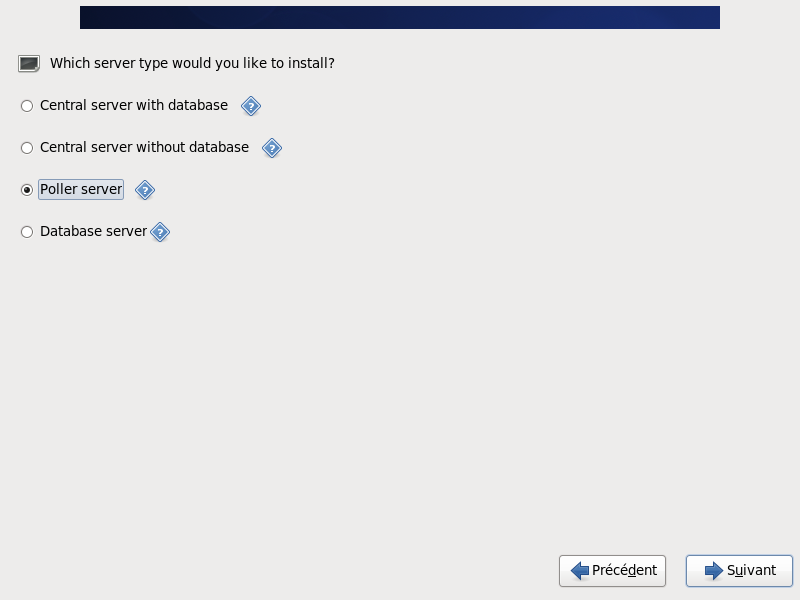
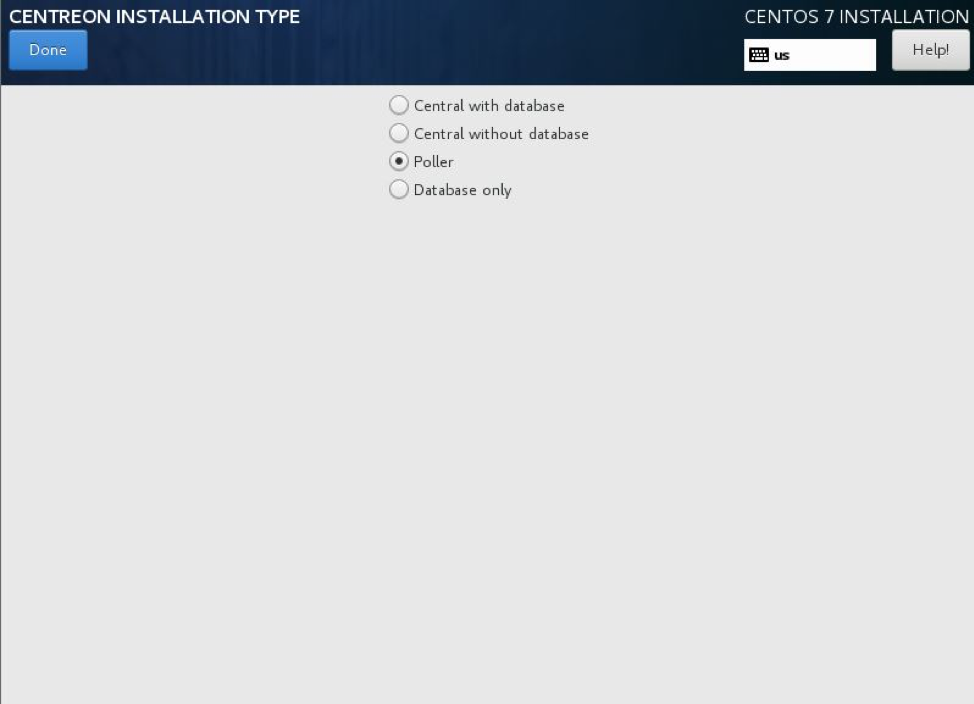
fix(donc): improve FR version

diff --git a/doc/fr/migration/upgradetoCentreon18.10.rst b/doc/fr/migration/upgradetoCentreon18.10.rst
@@ -9,8 +9,8 @@ Prérequis
 *********
 
 Cette procédure ne s'applique que pour une plate-forme **Centreon 3.4**,
-installé sur une distribution GNU/Linux 64 bits et disposant des prérequis
-suivants :
+installé sur une distribution GNU/Linux 64 bits autre que CentOS ou Red Hat 7 
+et disposant des prérequis suivants :
 
 +-----------------+---------+
 | Composants      | Version |
@@ -34,7 +34,7 @@ Migration
 .. warning::
     En cas de migration d'une plate-forme disposant du système de redondance
     Centreon, il est nécessaire de contacter votre `support Centreon 
-    <https://support.centreon.com>`_.
+    <https://centreon.force.com>`_.
 
 .. warning::
     En cas de migration d'une plate-forme disposant du module **Centreon Poller
@@ -70,40 +70,45 @@ suivants : ::
 .. warning::
     En cas de migration d'une plate-forme CES 3.4.1, Centreon-web 2.8.26 sous CentOS 6 avec MariaDB 5.X, ne pas synchroniser les dossiers /var/lib/mysql avec RSYNC vers la database Centreon 18.10 en MariaDB 10.1.
     
-    #. Faire un dump des bases de données sources
+    #. Faire un dump des bases de données sources : ::
+    
         # mysqldump -u root -p centreon > /tmp/export/centreon.sql
         # mysqldump -u root -p centreon_storage > /tmp/export/centreon_storage.sql
       
-    #. Arreter le serveur MariaDB source
+    #. Arreter le serveur MariaDB source : ::
+    
         # service mysql stop
     
-    #. Transférer les exports vers le nouveau serveur de base de données Centreon 18.10
+    #. Transférer les exports vers le nouveau serveur de base de données Centreon 18.10 : ::
+    
         # rsync -avz /tmp/centreon.sql root@IP_New_Centreon:/tmp/
         # rsync -avz /tmp/centreon_storage.sql root@IP_New_Centreon:/tmp/
         
-    #. Sur le serveur de base de données Centreon 18.10 supprimer les bases de données vierges et les recréer
+    #. Sur le serveur de base de données Centreon 18.10 supprimer les bases de données vierges et les recréer : ::
+    
         # mysql -u root -p
         # drop database centreon;
         # drop database centreon_storage;
         # create database centreon;
         # create database centreon_storage;
         
-    #. Importer les dumps
+    #. Importer les dumps : ::
+    
         # mysql -u root centreon -p </tmp/centreon.sql
         # mysql -u root centreon_storage -p </tmp/centreon_storage.sql
         
-    #. Executer l'upgrade des tables
+    #. Executer l'upgrade des tables : ::
+    
         # mysql_upgrade
         
     #. Reprendre la procédure de migration
     
-
 Si le SGBD MySQL/MariaDB est installé sur même serveur que le serveur Centreon,
 exécutez les commandes suivantes :
 
 #. Arrêtez le processus **mysqld** sur les deux serveurs (ancien et nouveau) : ::
 
-    # systemctl stop mysqld
+    # service mysqld stop
 
 #. Sur le nouveau serveur, supprimer le contenu du répertoire /var/lib/mysql/ : ::
 
@@ -137,16 +142,17 @@ dépend de votre installation. Les principaux répertoires à synchroniser sont 
 .. note::
     Si vous avez des pollers en centreon engine 1.8.1 que vous comptez migrer plus tard en centreon engine 18.10, attention au dossier des plugins nagios. La ressource $USER1$ ce Centreon 18.10 pointe sur /usr/lib64/nagios/plugins
     
-    A éxécuter sur vos collecteurs en centreon-engine 1.8.1 :
+    A éxécuter sur vos collecteurs en centreon-engine 1.8.1 : ::
     
-    # mv /usr/lib64/nagios/plugins/* /usr/lib/nagios/plugins/
-    # rmdir /usr/lib64/nagios/plugins/
-    # ln -s -t /usr/lib64/nagios/ /usr/lib/nagios/plugins/
+        # mv /usr/lib64/nagios/plugins/* /usr/lib/nagios/plugins/
+        # rmdir /usr/lib64/nagios/plugins/
+        # ln -s -t /usr/lib64/nagios/ /usr/lib/nagios/plugins/
     
-    De cette façon un lien symbolique est créé :
-    # ls -alt /usr/lib64/nagios/
-    lrwxrwxrwx   1 root root      24  1 nov.  17:59 plugins -> /usr/lib/nagios/plugins/
-    -rwxr-xr-x   1 root root 1711288  6 avril  2018 cbmod.so
+    De cette façon un lien symbolique est créé : ::
+    
+        # ls -alt /usr/lib64/nagios/
+        lrwxrwxrwx   1 root root      24  1 nov.  17:59 plugins -> /usr/lib/nagios/plugins/
+        -rwxr-xr-x   1 root root 1711288  6 avril  2018 cbmod.so
     
     Et vous permet de pousser les configuration de collecteur depuis Centreon 18.10 indifféremment vers un collecteur en 18.10 ou 1.8.1
 

diff --git a/doc/fr/installation/common/install_iso.rst b/doc/fr/installation/common/install_iso.rst
@@ -16,7 +16,7 @@ Démarrez avec l'option **Install CentOS 7** :
 Etape 2 : Choix de la langue
 ============================
 
-Choisissez la langue du processus d'installation puis cliquez sur **Done** :
+Choisissez la langue du processus d'installation puis cliquez sur **Continue** :
 
 .. image :: /images/guide_utilisateur/02_select_install_lang.png
    :align: center
@@ -37,12 +37,12 @@ Il est possible de choisir différentes options :
    :align: center
    :scale: 65%
 
-|
-
  * **Central with database** : Installe Centreon (interface web + base de données) ainsi que l'ordonnanceur et le broker
  * **Central without database** : Installe Centreon (interface web uniquement) ainsi que l'ordonnanceur et le broker
  * **Poller** : Installe le serveur satellite (ordonnanceur et broker uniquement)
  * **Database only** : Installe le serveur de base de données (utilisé en complément avec l'option **Central server without database**)
+
+Après avoir sélectionné le type d'installation, cliquez sur **Done**.
 
 Etape 4 : Configuration système
 ===============================
@@ -68,9 +68,38 @@ A l'aide du bouton **+** créez votre partitionnement suivant les :ref:`prérequ
    :align: center
    :scale: 65%
 
+.. note::
+    Il est recommandé d'utiliser LVM par défaut pour le partitionnement.
+
 Une fenêtre de confirmation apparaît, cliquez sur **Accept Changes** pour valider le partitionnement :
 
 .. image :: /images/guide_utilisateur/08_apply_changes.png
+   :align: center
+   :scale: 65%
+
+Configuration du fuseau horaire
+-------------------------------
+
+Cliquez sur le menu **Date & Time** :
+
+.. image :: /images/guide_utilisateur/11_menu_timezone.png
+   :align: center
+   :scale: 65%
+
+Sélectionnez votre fuseau horaire et cliquez sur le bouton de configuration :
+
+.. note::
+    Il est normal que vous ne puissiez pas activer l'option *network time* dans
+    cet écran. Il deviendra automatiquement activé lorsque vous configurerez le
+    réseau et le nom d'hôte.
+
+.. image :: /images/guide_utilisateur/12_select_timzeone.png
+   :align: center
+   :scale: 65%
+
+Activez ou ajouter des serveurs NTP, cliquez sur **OK** puis **Done** :
+
+.. image :: /images/guide_utilisateur/13_enable_ntp.png
    :align: center
    :scale: 65%
 
@@ -86,27 +115,6 @@ Cliquez sur le menu **Network & Hostname** :
 Activez toutes les cartes réseaux, saisissez le nom de votre serveur puis cliquez sur **Done** :
 
 .. image :: /images/guide_utilisateur/10_network_hostname.png
-   :align: center
-   :scale: 65%
-
-Configuration du fuseau horaire
--------------------------------
-
-Cliquez sur le menu **Date & Time** :
-
-.. image :: /images/guide_utilisateur/11_menu_timezone.png
-   :align: center
-   :scale: 65%
-
-Sélectionnez votre fuseau horaire et cliquez sur le bouton de configuration :
-
-.. image :: /images/guide_utilisateur/12_select_timzeone.png
-   :align: center
-   :scale: 65%
-
-Activez ou ajouter des serveurs NTP, cliquez sur **OK** puis **Done** :
-
-.. image :: /images/guide_utilisateur/13_enable_ntp.png
    :align: center
    :scale: 65%
 
@@ -131,7 +139,8 @@ Saisissez et confirmez le mot de passe de l'utilisateur **root**. Cliquez sur **
    :align: center
    :scale: 65%
 
-Patientez pendant le processus d'installation :
+Patientez pendant le processus d'installation. vous pouvez également créer de
+nouveaux utilisateurs si nécessaire :
 
 .. image :: /images/guide_utilisateur/17_wait_install.png
    :align: center

diff --git a/doc/fr/installation/common/post_install.rst b/doc/fr/installation/common/post_install.rst
@@ -40,7 +40,11 @@ L'interface web de Centreon est composée de plusieurs menus, chaque menu a une 
 .. image :: /images/guide_utilisateur/amenu.png
    :align: center
 
-* Le menu **Accueil** permet d'accéder au premier écran d'accueil après s'être connecté. Il résume l'état général de la supervision.
+* Le menu **Accueil** permet d'accéder au premier écran d'accueil après s'être
+  connecté. Il résume l'état général de la supervision. Votre espace de travail
+  peut être vide pour l'instant. Une fois que vous avez configuré les widgets
+  personnalisables, vous verrez les données et les graphiques en fonction de votre
+  personnalisation.
 * Le menu **Supervision** regroupe l'état de tous les éléments supervisés en temps réel et en différé au travers de la visualisation des logs
 * Le menu **Vues** permet de visualiser et de configurer les graphiques de performances pour chaque élément du système d'informations
 * Le menu **Rapports** permet de visualiser de manière intuitive (via des diagrammes) l'évolution de la supervision sur une période donnée
@@ -79,7 +83,7 @@ Les modules sont maintenant installés :
 Vous pouvez maintenant vous rendre au menu **Configuration > Extensions
 -> Plugin Packs**. Vous y trouverez vos six premiers Plugin Packs
 gratuits pour vous aider à démarrer. Cinq Plugin Packs supplémentaires
-sont débloqués après vous être inscrit et plus de 150 sont disponibles
+sont débloqués après vous être inscrit et plus de 300 sont disponibles
 si vous souscrivez à l'offre IMP (plus d'informations sur
 `notre site web <https://www.centreon.com>`_).
 

diff --git a/doc/fr/installation/from_VM.rst b/doc/fr/installation/from_VM.rst
@@ -9,6 +9,10 @@ Deux machines virtuelles pré-configurées sont disponibles sur le site de
 
 Ces machines virtuelles sont disponibles au format OVA (VMware) et OVF (VirtualBox).
 
+.. note::
+    Les OVA/OVF peuvent ne pas contenir de configuration de carte réseau. Il
+    sera nécessaire d'ajouter une carte réseau avant de démarrer le serveur.
+
 ************************
 Serveur Centreon central
 ************************
@@ -34,7 +38,7 @@ Le mot de passe de de l'utilisateur **root** de la base de données n'est pas in
     de passe aprés l'installation
 
 A la première connexion, un message indique les opérations à réaliser. Suivez
-celles-ci, **spécialement les opérations 4 et 5**.
+celles-ci, **les opérations 4 et 5 sont obligatoires**.
 
 .. note::
     Pour supprimer ce message, supprimez le fichier **/etc/profile.d/centreon.sh**.
@@ -60,6 +64,12 @@ l’utilisateur ‘centreon’ ::
 
     # su - centreon
     $ ssh-keygen -t rsa
+
+.. note::
+    Appuyez sur la touche *entrée* quand il vous sera demandé de saisir un
+    fichier pour enregistrer la clé. Laissez le mot de passe vide si vous le
+    souhaitez. Cependant, ce n'est pas recommandé. Vous recevrez une empreinte
+    digitale de clé et une image randomart.
 
 Vous devez copier cette clé sur le nouveau serveur : ::
 

diff --git a/doc/fr/installation/common/install_packages.rst b/doc/fr/installation/common/install_packages.rst
@@ -48,6 +48,11 @@ Installation : ::
 
 Le dépôt est maintenant installé.
 
+.. note::
+    Si le paquet n'est pas installé, exécutez la commande : ::
+    
+        # yum install wget
+
 *******************************
 Installation du serveur central
 *******************************
@@ -104,7 +109,8 @@ La timezone par défaut de PHP doit être configurée. Executer la commande suiv
     # echo "date.timezone = Europe/Paris" > /etc/opt/rh/rh-php71/php.d/php-timezone.ini
 
 .. note::
-    Changez **Europe/Paris** par votre fuseau horaire.
+    Changez **Europe/Paris** par votre fuseau horaire. La liste des fuseaux horaires
+    est disponible `ici <http://php.net/manual/en/timezones.php>`_.
 
 Après avoir réalisé la modification, redémarrez le service Apache : ::
 
@@ -139,7 +145,9 @@ Lancer les commandes suivantes sur le serveur Central : ::
 
 .. note::
     Si la base de données MySQL est sur un serveur dédié, lancer la commande
-    d'activation mysql sur ce dernier.
+    d'activation mysql sur ce dernier : ::
+    
+        # systemctl enable mysql
 
 Terminer l'installation
 -----------------------

diff --git a/doc/fr/administration_guide/poller/ssh_key.rst b/doc/fr/administration_guide/poller/ssh_key.rst
@@ -12,6 +12,12 @@ l’utilisateur **centreon** : ::
     # su - centreon
     $ ssh-keygen -t rsa
 
+.. note::
+    Appuyez sur la touche *entrée* quand il vous sera demandé de saisir un
+    fichier pour enregistrer la clé. Laissez le mot de passe vide si vous le
+    souhaitez. Cependant, ce n'est pas recommandé. Vous recevrez une empreinte
+    digitale de clé et une image randomart.
+
 Générez un mot de passe sur le nouveau serveur pour l'utilisateur
 **centreon** : ::
 
@@ -20,4 +26,4 @@ Générez un mot de passe sur le nouveau serveur pour l'utilisateur
 Vous devez copier cette clé sur le nouveau serveur : ::
 
     # su - centreon
-    $ ssh-copy-id -i .ssh/id_rsa.pub centreon@IP_POLLER
+    $ ssh-copy-id -i .ssh/id_rsa.pub centreon@IP_NEW_POLLER

diff --git a/doc/fr/administration_guide/poller/install_poller_iso.rst b/doc/fr/administration_guide/poller/install_poller_iso.rst
@@ -12,8 +12,8 @@ Central réalisé à partir du fichier ISO de Centreon.
 .. note::
     Référez-vous à la documentation :ref:`installation<installisoel7>`.
 
-A la question **Which server type would you like to install?** il faut choisir
-l’option **Poller server**.
+A lieu de sélectionner l'option **Central with database**, il faut choisir
+l'option **Poller**:
 
 .. image:: /images/guide_utilisateur/configuration/10advanced_configuration/07installpoller.png
     :align: center

diff --git a/doc/fr/lifecycle.rst b/doc/fr/lifecycle.rst
@@ -40,6 +40,8 @@ Le cycle de vie d'une version est divisé en 3 phases :
 .. note::
     La gravité et la hiérarchisation des bogues sont la responsabilité de l'équipe Centreon
 
+La première phase commence le cycle de vie de la version.
+
 La deuxième phase d'une version commence lorsque la prochaine version majeure 
 est disponible. Par exemple, la publication de Centreon 19.04 lance la deuxième 
 phase de Centreon 18.10.

diff --git a/doc/fr/installation/common/web_install.rst b/doc/fr/installation/common/web_install.rst
@@ -2,6 +2,11 @@
 Configuration
 *************
 
+.. note::
+    Pour obtenir l'adresse IP de votre serveur, exécutez la commande : ::
+    
+        # ip addr
+
 Connectez-vous à l'interface web via http://[ADRESSE_IP_DE_VOTRE_SERVEUR]/centreon.
 L'assistant de configuration de Centreon s'affiche, cliquez sur **Next**.
 
